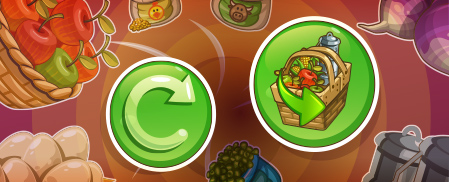
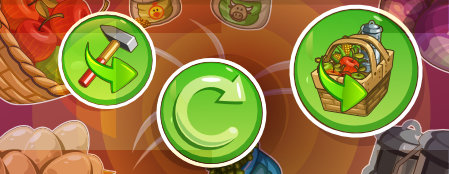
feat: add start-again button build: update simplebar-vue

diff --git a/src/components/big-farm.vue b/src/components/big-farm.vue
@@ -50,26 +50,34 @@
                         }}</h4>
                       </div>
 
-                      <div class="bigfarm__grow" v-if="userSubscriptionByType(plan.id).id === 'individualSubscription'" data-simplebar>
-                        <dl class="row no-gutters mt-2 mb-0">
-                          <dt class="col-icon pl-2"><img :src="require('@/assets/images/bigfarm__bonus_harvest-all.svg')" alt="Harvest All" class="bigfarm__feature_icon" /></dt>
-                          <dd class="col-description">
-                            <h3>{{ t('subscription_perkHarvestAll_title') }}</h3>
-                            <p>{{ t('subscription_perkHarvestAll_copy') }}</p>
-                          </dd>
-                          <dt class="col-icon pl-2"><img :src="require('@/assets/images/bigfarm__bonus_repeat-production.svg')" alt="Repeat Production" class="bigfarm__feature_icon" /></dt>
-                          <dd class="col-description">
-                            <h3>{{ t('subscription_perkProRepeat_title') }}</h3>
-                            <p>{{ t('subscription_perkProRepeat_copy') }}</p>
-                          </dd>
-                        </dl>
+                      <div class="bigfarm__grow" v-if="userSubscriptionByType(plan.id).id === 'individualSubscription'">
+                        <div class="bigfarm__fit_height ">
+                          <div class="bigfarm__scroll_container" data-simplebar>
+                            <dl class="row no-gutters mt-2 mb-0">
+                              <dt class="col-icon pl-2"><img :src="require('@/assets/images/bigfarm__bonus_harvest-all.svg')" :alt="t('subscription_perkHarvestAll_title')" class="bigfarm__feature_icon" /></dt>
+                              <dd class="col-description">
+                                <h3>{{ t('subscription_perkHarvestAll_title') }}</h3>
+                                <p>{{ t('subscription_perkHarvestAll_copy') }}</p>
+                              </dd>
+                              <dt class="col-icon pl-2"><img :src="require('@/assets/images/bigfarm__bonus_repeat-production.svg')" :alt="t('subscription_perkProRepeat_title')" class="bigfarm__feature_icon" /></dt>
+                              <dd class="col-description">
+                                <h3>{{ t('subscription_perkProRepeat_title') }}</h3>
+                                <p>{{ t('subscription_perkProRepeat_copy') }}</p>
+                              </dd>
+                              <dt class="col-icon pl-2"><img :src="require('@/assets/images/bigfarm__bonus_start-again.svg')" :alt="t('subscription_perkStartAgain_title')" class="bigfarm__feature_icon" /></dt>
+                              <dd class="col-description">
+                                <h3>{{ t('subscription_perkStartAll_title') }}</h3>
+                                <p>{{ t('subscription_perkStartAll_copy') }}</p>
+                              </dd>
+                            </dl>
+                          </div>
+                        </div>
                       </div>
 
                       <div class="bigfarm__grow allianceSubscription" v-if="userSubscriptionByType(plan.id).id === 'allianceSubscription'">
                         <div class="bigfarm__fit_height">
                           <div class="bigfarm__grow">
                             <div class="bigfarm__fit_height">
-
                               <div class="bigfarm__scroll_container mt-1" data-simplebar>
                                 <ul class="list-unstyled">
                                   <li class="media" v-for="(perkId, index) in alliancePackPerksForHighlightedTier">
@@ -83,7 +91,7 @@
                             </div>
                           </div>
 
-                          <hr class="fullwidth mt-2 mb-2" />
+                          <hr class="fullwidth mt-0 mb-2" />
 
                           <div class="btn btn-secondary mb-2 ml-1 mr-1 outline-1px" @click="goToPage(3)">{{ t('subscription_AllianceBonusesButton') }}</div>
                         </div>
@@ -120,6 +128,7 @@
                               </div>
                             </div>
                           </h3>
+                          <p class="text-center">{{ t('subscription_cancelable_title') }}</p>
                         </div>
                       </div>
                       <div class="bigfarm__shade_brown bigfarm__pack_subscribe fullwidth alignbottom">
